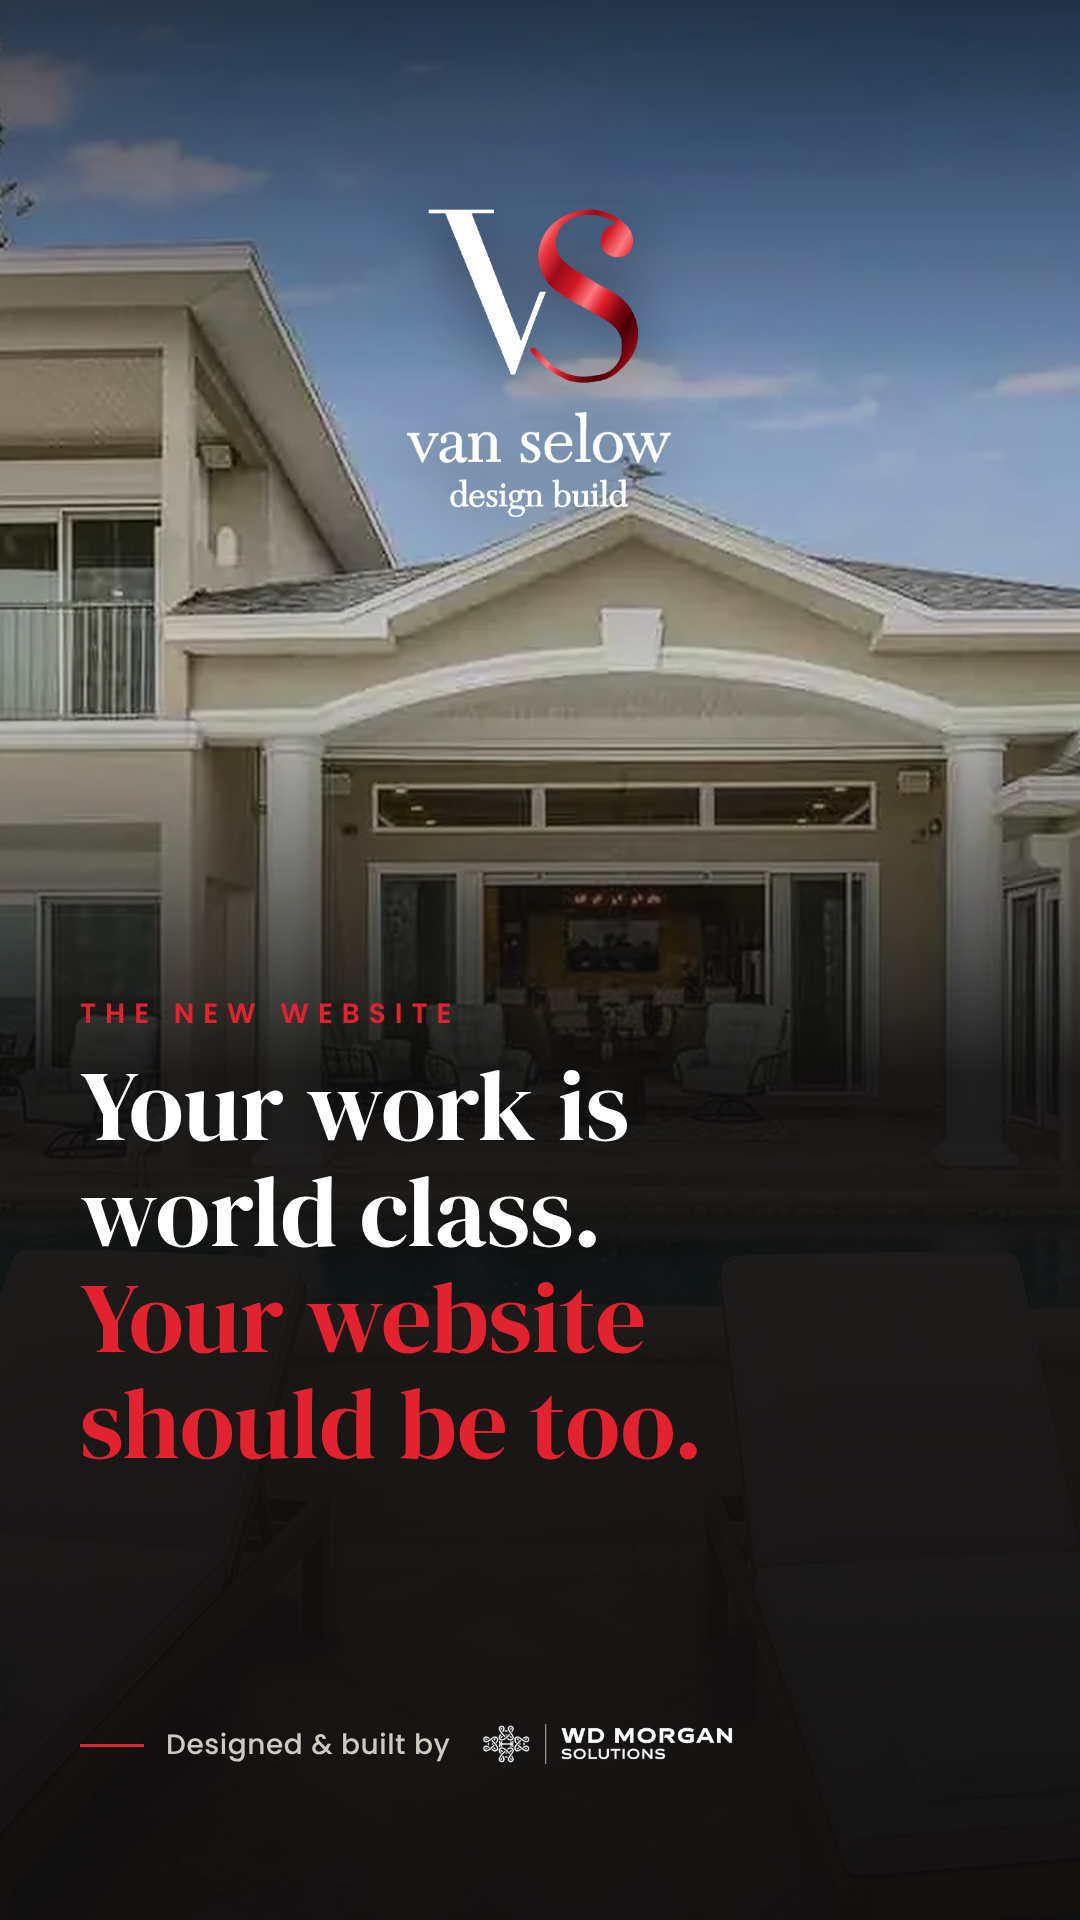
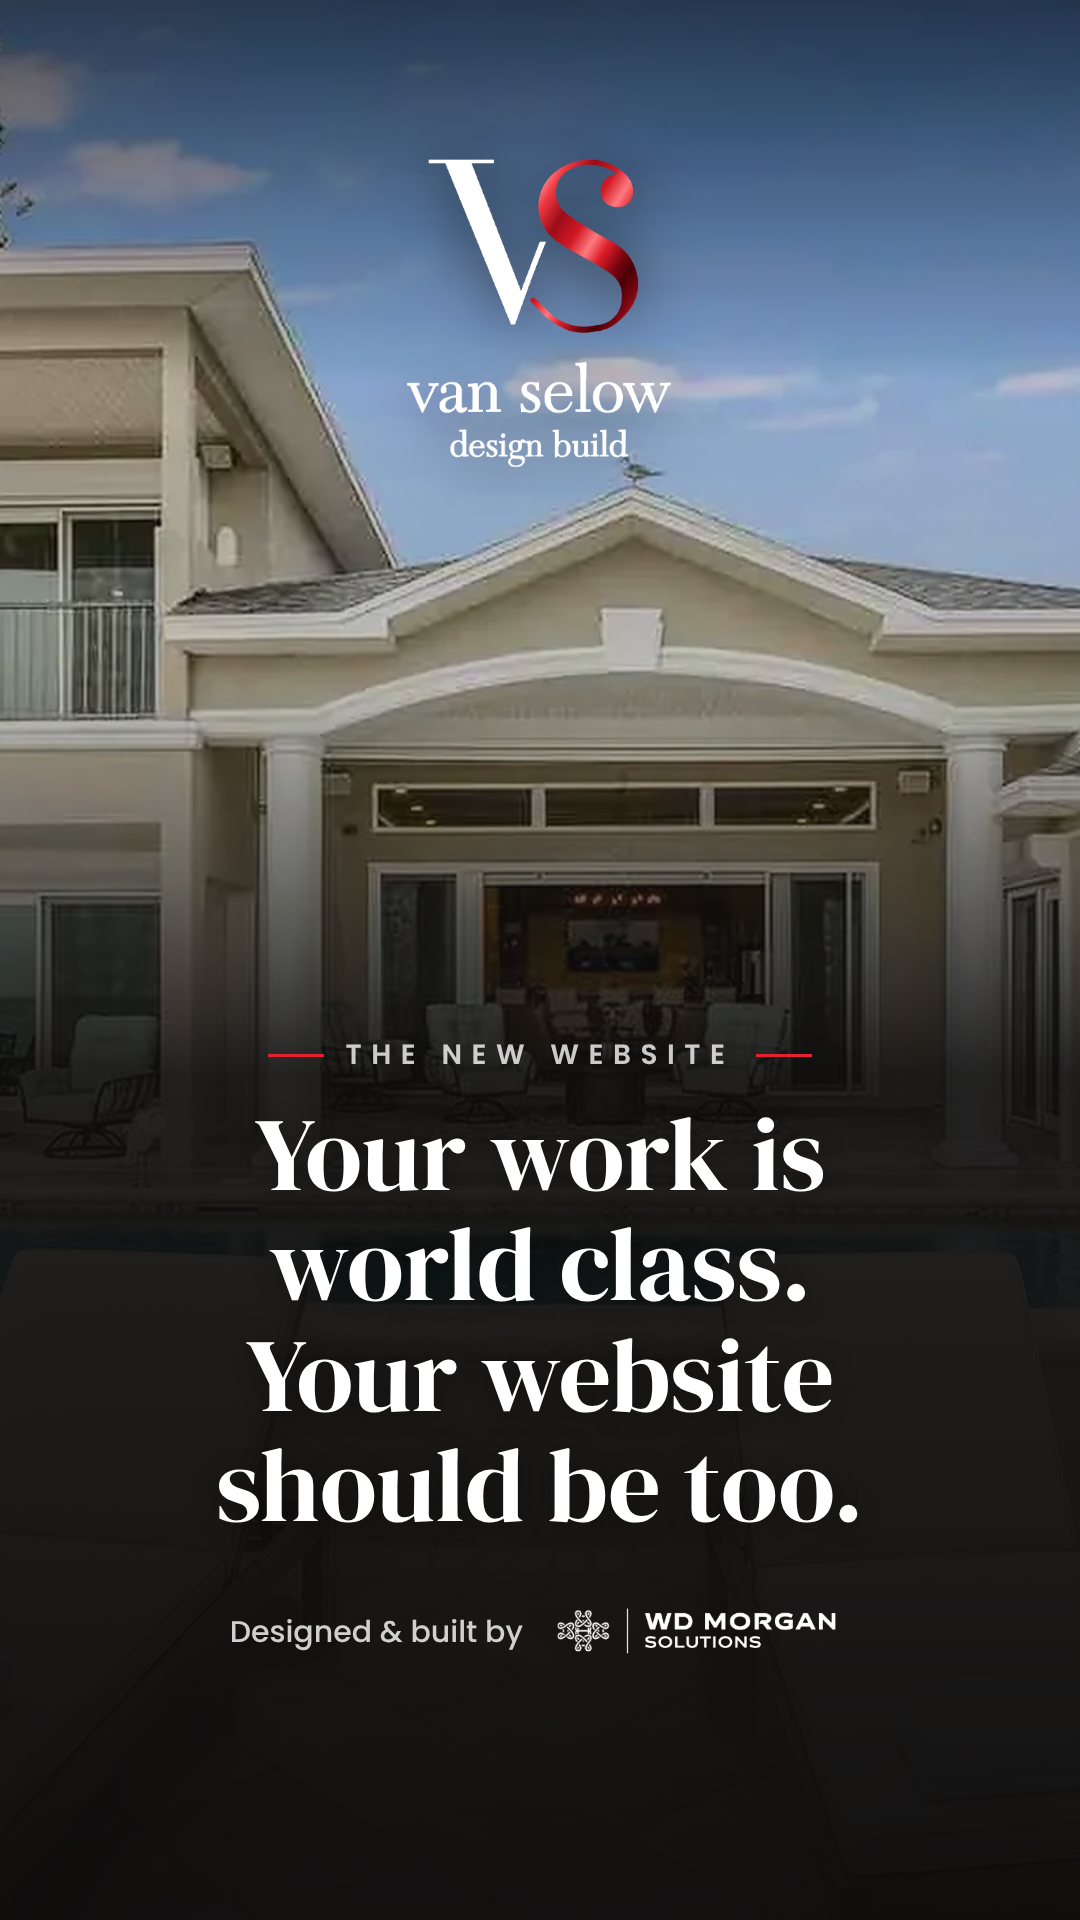
Redesign thumbnail card: centered layout, white type, even spacing
Claude-Session: https://claude.ai/code/session_01AyWuiwPBmXjxnYLJ5xUEiC

diff --git a/vanselow-reel/thumb/thumb.html b/vanselow-reel/thumb/thumb.html
@@ -4,34 +4,43 @@
   @font-face { font-family: Display; src: url(../fonts/display.woff2) format('woff2'); }
   @font-face { font-family: UI; src: url(../fonts/ui.woff2) format('woff2'); font-weight: 500; }
   @font-face { font-family: UI; src: url(../fonts/ui-600.woff2) format('woff2'); font-weight: 600; }
+  :root { --w: 1920px; --h: 1080px; --red: #e2232f; }
+  .v { --w: 1080px; --h: 1920px; }
   html, body { margin: 0; background: #121111; }
-  .card { position: relative; overflow: hidden; width: 1920px; height: 1080px; color: #fff; }
-  .v .card { width: 1080px; height: 1920px; }
-  .bg { position: absolute; inset: 0; background: url(../assets/photos/waterfront-pool-home-lounge-chairs-van-selow.jpg) center 60% / cover; }
-  .shade { position: absolute; inset: 0; background: linear-gradient(90deg, rgba(14,13,13,.95) 0%, rgba(14,13,13,.88) 40%, rgba(14,13,13,.35) 62%, rgba(14,13,13,0) 85%); }
-  .v .shade { background: linear-gradient(180deg, rgba(14,13,13,.75) 0%, rgba(14,13,13,.25) 22%, rgba(14,13,13,.2) 36%, rgba(14,13,13,.92) 56%, rgba(14,13,13,.97) 100%); }
-  .col { position: absolute; left: 110px; top: 100px; bottom: 96px; width: 820px; display: flex; flex-direction: column; }
-  .v .col { left: 80px; right: 80px; top: 1000px; bottom: 150px; width: auto; }
-  .logo { height: 260px; width: auto; align-self: flex-start; margin-left: -18px; }
-  .v .logo { height: 330px; position: absolute; top: -800px; left: 50%; transform: translateX(-50%); margin: 0; filter: drop-shadow(0 6px 30px rgba(0,0,0,.55)); }
-  .eyebrow { font: 600 26px/1 UI; letter-spacing: .32em; color: #e2232f; margin-top: 64px; }
-  .v .eyebrow { margin-top: 0; font-size: 28px; }
-  h1 { font: 400 98px/1.06 Display; margin: 24px 0 0; }
-  .v h1 { font-size: 100px; }
-  h1 span { color: #e2232f; }
-  .by { margin-top: auto; display: flex; align-items: center; gap: 22px; font: 500 28px/1 UI; color: #cfc9c1; letter-spacing: .02em; }
-  .by img { height: 50px; }
-  .rule { width: 64px; height: 3px; background: #e2232f; }
+  .card { position: relative; overflow: hidden; width: var(--w); height: var(--h); color: #fff; text-align: center; }
+  .bg { position: absolute; inset: 0; background: url(../assets/photos/waterfront-pool-home-lounge-chairs-van-selow.jpg) center 62% / cover; }
+  /* dark at the top for the logo, open in the middle for the house, deep at the bottom for the type */
+  .shade { position: absolute; inset: 0; background: linear-gradient(180deg, rgba(14,13,13,.70) 0%, rgba(14,13,13,.18) 26%, rgba(14,13,13,.22) 42%, rgba(14,13,13,.86) 64%, rgba(14,13,13,.97) 100%); }
+  .v .shade { background: linear-gradient(180deg, rgba(14,13,13,.72) 0%, rgba(14,13,13,.2) 20%, rgba(14,13,13,.25) 36%, rgba(14,13,13,.9) 56%, rgba(14,13,13,.98) 100%); }
+  .logo { position: absolute; left: 50%; transform: translateX(-50%); top: 56px; height: 250px; filter: drop-shadow(0 6px 28px rgba(0,0,0,.6)); }
+  .v .logo { top: 150px; height: 330px; }
+  /* everything below is one block anchored to the bottom, so the spacing is set in one place */
+  .block { position: absolute; left: 0; right: 0; bottom: 84px; display: flex; flex-direction: column; align-items: center; }
+  .v .block { bottom: 260px; }
+  .eyebrow { font: 600 24px/1 UI; letter-spacing: .34em; color: rgba(255,255,255,.78); display: flex; align-items: center; gap: 22px; }
+  .eyebrow::before, .eyebrow::after { content: ''; width: 56px; height: 3px; background: var(--red); }
+  .v .eyebrow { font-size: 28px; }
+  h1 { font: 400 92px/1.08 Display; margin: 30px 0 0; text-shadow: 0 2px 24px rgba(0,0,0,.35); }
+  .v h1 { font-size: 104px; line-height: 1.06; }
+  .by { margin-top: 48px; display: flex; align-items: center; gap: 22px; font: 500 26px/1 UI; color: rgba(255,255,255,.8); }
+  .v .by { margin-top: 64px; font-size: 30px; }
+  .by img { height: 48px; }
+  .v .by img { height: 56px; }
 </style></head>
 <body>
 <div class="card">
   <div class="bg"></div><div class="shade"></div>
-  <div class="col">
-    <img class="logo" src="../assets/logo/shimmer/12.png">
+  <img class="logo" src="../assets/logo/shimmer/12.png">
+  <div class="block">
     <div class="eyebrow">THE NEW WEBSITE</div>
-    <h1>Your work is<br>world class.<br><span>Your website<br>should be too.</span></h1>
-    <div class="by"><div class="rule"></div>Designed &amp; built by <img src="../assets/wdm-logo.png"></div>
+    <h1 class="h16">Your work is world class.<br>Your website should be too.</h1>
+    <div class="by">Designed &amp; built by <img src="../assets/wdm-logo.png"></div>
   </div>
 </div>
-<script>if (location.search.includes('v')) document.documentElement.className = 'v';</script>
+<script>
+  if (location.search.includes('v')) {
+    document.documentElement.className = 'v';
+    document.querySelector('h1').innerHTML = 'Your work is<br>world class.<br>Your website<br>should be too.';
+  }
+</script>
 </body></html>
